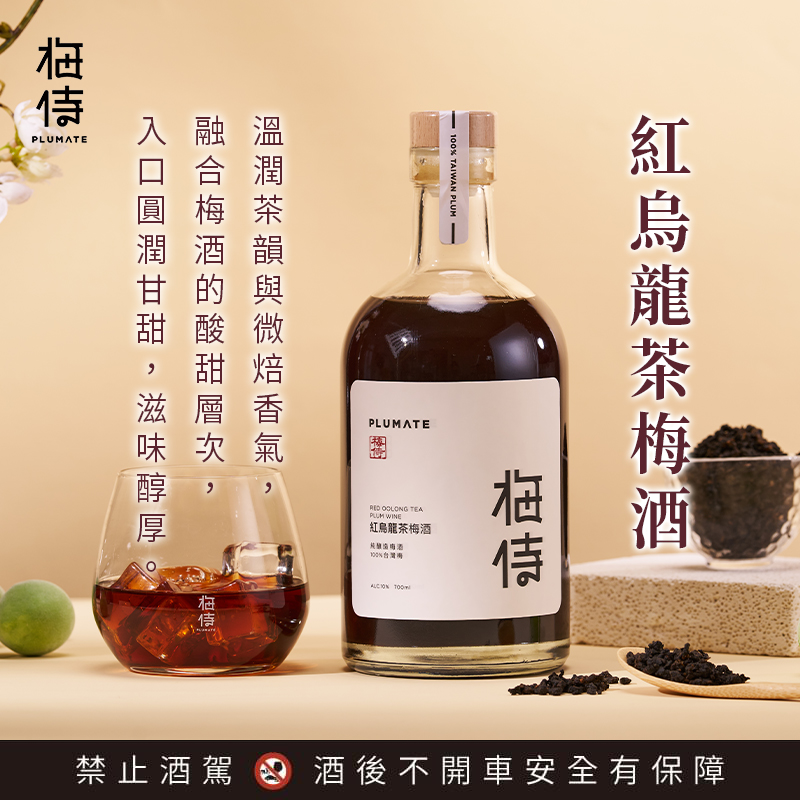
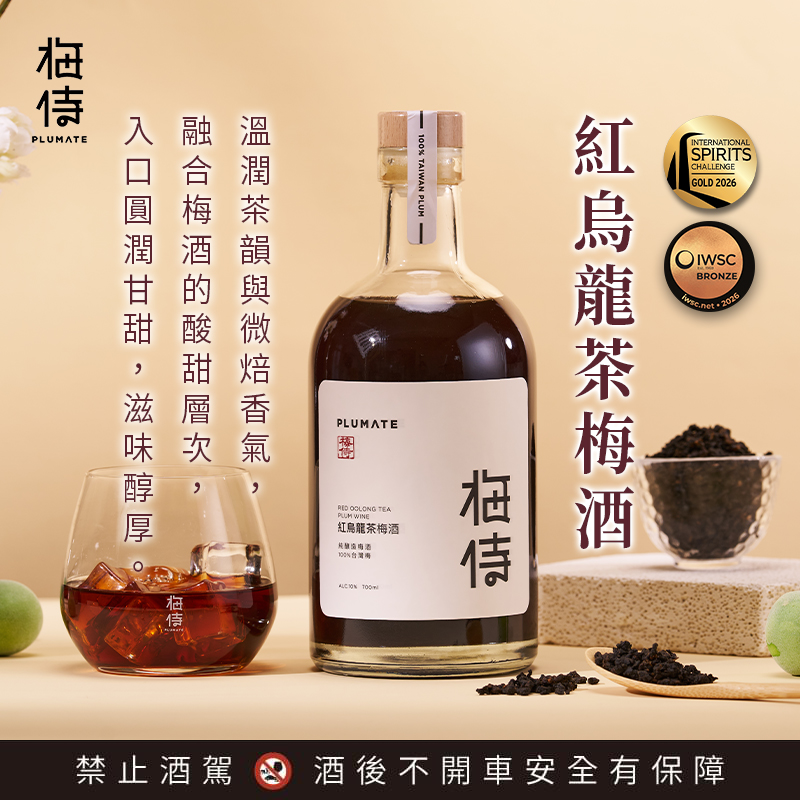
sync: 鏡像同步正式站 20260929-1746

diff --git a/app.js b/app.js
@@ -199,7 +199,7 @@ function bottleRow(b, specLabel, showSpec) {
 const BOX_IMAGES = {
   "馬到成功禮盒": "assets/banner-madao-2609.jpg?v=1",
   "《奔馬》典藏禮盒": "assets/banner-benma-2609.jpg?v=1",
-  "紅烏龍茶梅酒（700ml）": "assets/promo-hongwulong.jpg?v=1",
+  "紅烏龍茶梅酒（700ml）": "assets/promo-hongwulong.jpg?v=2",
   "長流-梅侍聯名禮盒": "assets/box-shuangma.webp?v=1",
   "250ml 精選6入獲獎組_v2": "assets/box-six-v2.webp?v=1",
 };

diff --git a/index.html b/index.html
@@ -220,6 +220,6 @@
     <p class="foot-warn">未成年請勿飲酒｜飲酒過量有礙健康｜酒後不開車</p>
   </footer>
 
-  <script src="app.js?v=48"></script>
+  <script src="app.js?v=49"></script>
 </body>
 </html>
